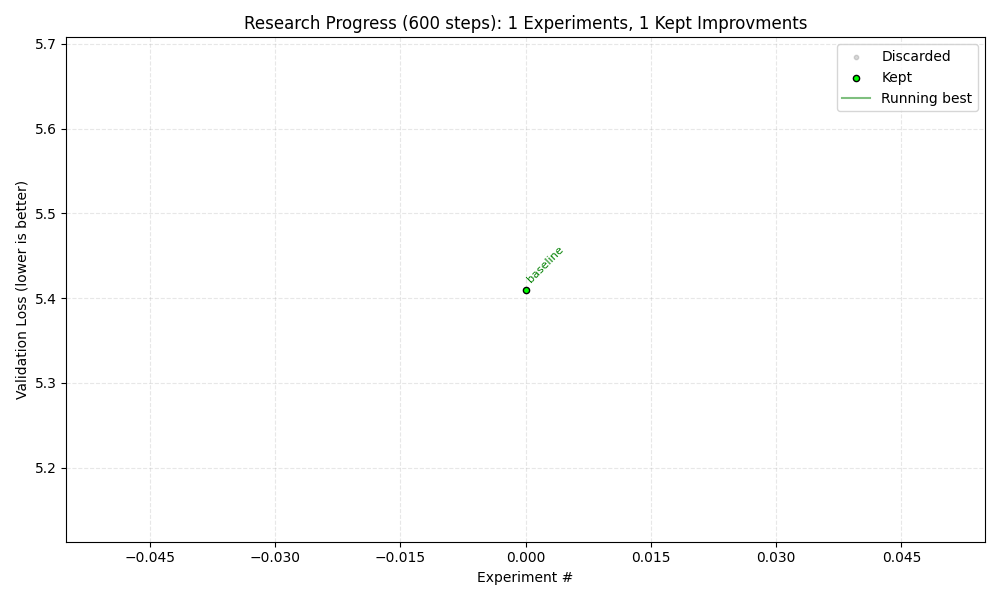
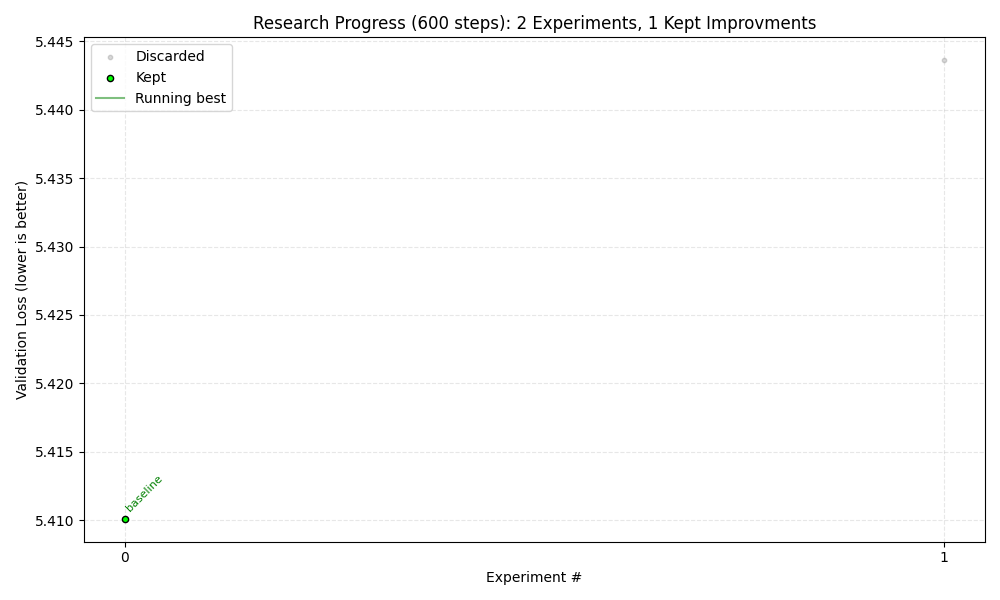
revert heterogeneous moe

diff --git a/model.py b/model.py
@@ -3,7 +3,6 @@ import torch.nn as nn
 from dataclasses import dataclass
 import torch.nn.functional as F
 import tiktoken
-import numpy as np
 
 
 def apply_rotary_pos_emb(q, k, cos, sin):
@@ -39,31 +38,7 @@ class MoE(nn.Module):
         self.n_experts = config.n_experts
         self.n_active_experts = config.n_active_experts
         self.router = nn.Linear(config.n_embd, config.n_experts, bias=False)
-
-        # Generate capacity multipliers if not provided
-        if config.expert_capacity_multipliers is None:
-            # Linear scale from 0.75x to 2.0x (tighter range, ~2.67:1 ratio)
-            # Paper shows this range performs better than extreme ratios
-            multipliers = np.linspace(0.75, 2.0, config.n_experts).tolist()
-        else:
-            multipliers = config.expert_capacity_multipliers
-            assert len(multipliers) == config.n_experts, (
-                f"expert_capacity_multipliers length ({len(multipliers)}) "
-                f"must match n_experts ({config.n_experts})"
-            )
-
-        # Create heterogeneous experts with different FFN dimensions
-        self.experts = nn.ModuleList(
-            [
-                HeterogeneousMLP(
-                    n_embd=config.n_embd, ffn_dim=int(config.ffn_dim * mult)
-                )
-                for mult in multipliers
-            ]
-        )
-
-        # Store capacities for capacity-aware balancing
-        self.register_buffer("expert_capacities", torch.tensor(multipliers))
+        self.experts = nn.ModuleList([MLP(config) for _ in range(config.n_experts)])
 
     def forward(self, x):
         B, T, C = x.size()
@@ -72,28 +47,9 @@ class MoE(nn.Module):
         weights, indices = probs.topk(self.n_active_experts, dim=-1)  # (B, T, K)
         weights = weights / weights.sum(dim=-1, keepdim=True)  # renormalize
 
-        # P-Penalty loss (paper: HMoE equation 4)
-        # Penalizes activation of larger experts by weighting usage × expert size
-        # This encourages the model to prefer smaller experts when possible
-
-        # Calculate actual usage per expert (fraction of tokens routed to each)
-        indices_flat_for_loss = indices.view(-1)  # (B*T*K,)
-        usage_per_expert = (
-            indices_flat_for_loss.bincount(minlength=self.n_experts).float()
-            / indices_flat_for_loss.numel()
-        )
-
-        # Average routing probability across all tokens
+        # load balancing auxiliary loss (Switch Transformer)
         avg_probs = probs.mean(dim=[0, 1])  # (n_experts,)
-
-        # Penalty term: usage weighted by expert capacity (size)
-        # Larger experts incur higher penalty when activated
-        weighted_usage = usage_per_expert * self.expert_capacities.to(
-            usage_per_expert.device
-        )
-
-        # P-Penalty loss: encourages using smaller experts
-        aux_loss = self.n_experts * (weighted_usage * avg_probs).sum()
+        aux_loss = self.n_experts * (avg_probs * avg_probs).sum()
 
         # sparse dispatch: route tokens to experts without running unused experts
         x_flat = x.view(B * T, C)  # (N, C)
@@ -131,23 +87,6 @@ class MoE(nn.Module):
         )
 
         return out.view(B, T, C), aux_loss
-
-    def get_expert_usage_stats(self, x):
-        """Returns expert usage statistics for analysis (not for training)."""
-        with torch.no_grad():
-            B, T, C = x.size()
-            logits = self.router(x)
-            probs = F.softmax(logits, dim=-1)
-            _, indices = probs.topk(self.n_active_experts, dim=-1)
-            indices_flat = indices.view(-1)
-            usage_counts = indices_flat.bincount(minlength=self.n_experts)
-            return {
-                "usage_counts": usage_counts.cpu().tolist(),
-                "usage_percentages": (
-                    (usage_counts.float() / indices_flat.numel() * 100).cpu().tolist()
-                ),
-                "capacities": self.expert_capacities.cpu().tolist(),
-            }
 
 
 class RMSNorm(nn.Module):
@@ -233,19 +172,6 @@ class MLP(nn.Module):
         return x
 
 
-class HeterogeneousMLP(nn.Module):
-    def __init__(self, n_embd: int, ffn_dim: int):
-        super().__init__()
-        self.swiglu = SwiGLU(n_embd, ffn_dim)
-        self.c_proj = nn.Linear(ffn_dim, n_embd, bias=False)
-        self.c_proj.GPT_SCALE_INIT = 1
-
-    def forward(self, x):
-        x = self.swiglu(x)
-        x = self.c_proj(x)
-        return x
-
-
 class Block(nn.Module):
     def __init__(self, config):
         super().__init__()
@@ -268,7 +194,6 @@ class LLMConfig:
     vocab_size: int = 50257
     n_experts: int = 8
     n_active_experts: int = 2
-    expert_capacity_multipliers: list = None  # None = auto-generate linear scale
 
     @property
     def n_layer(self):
